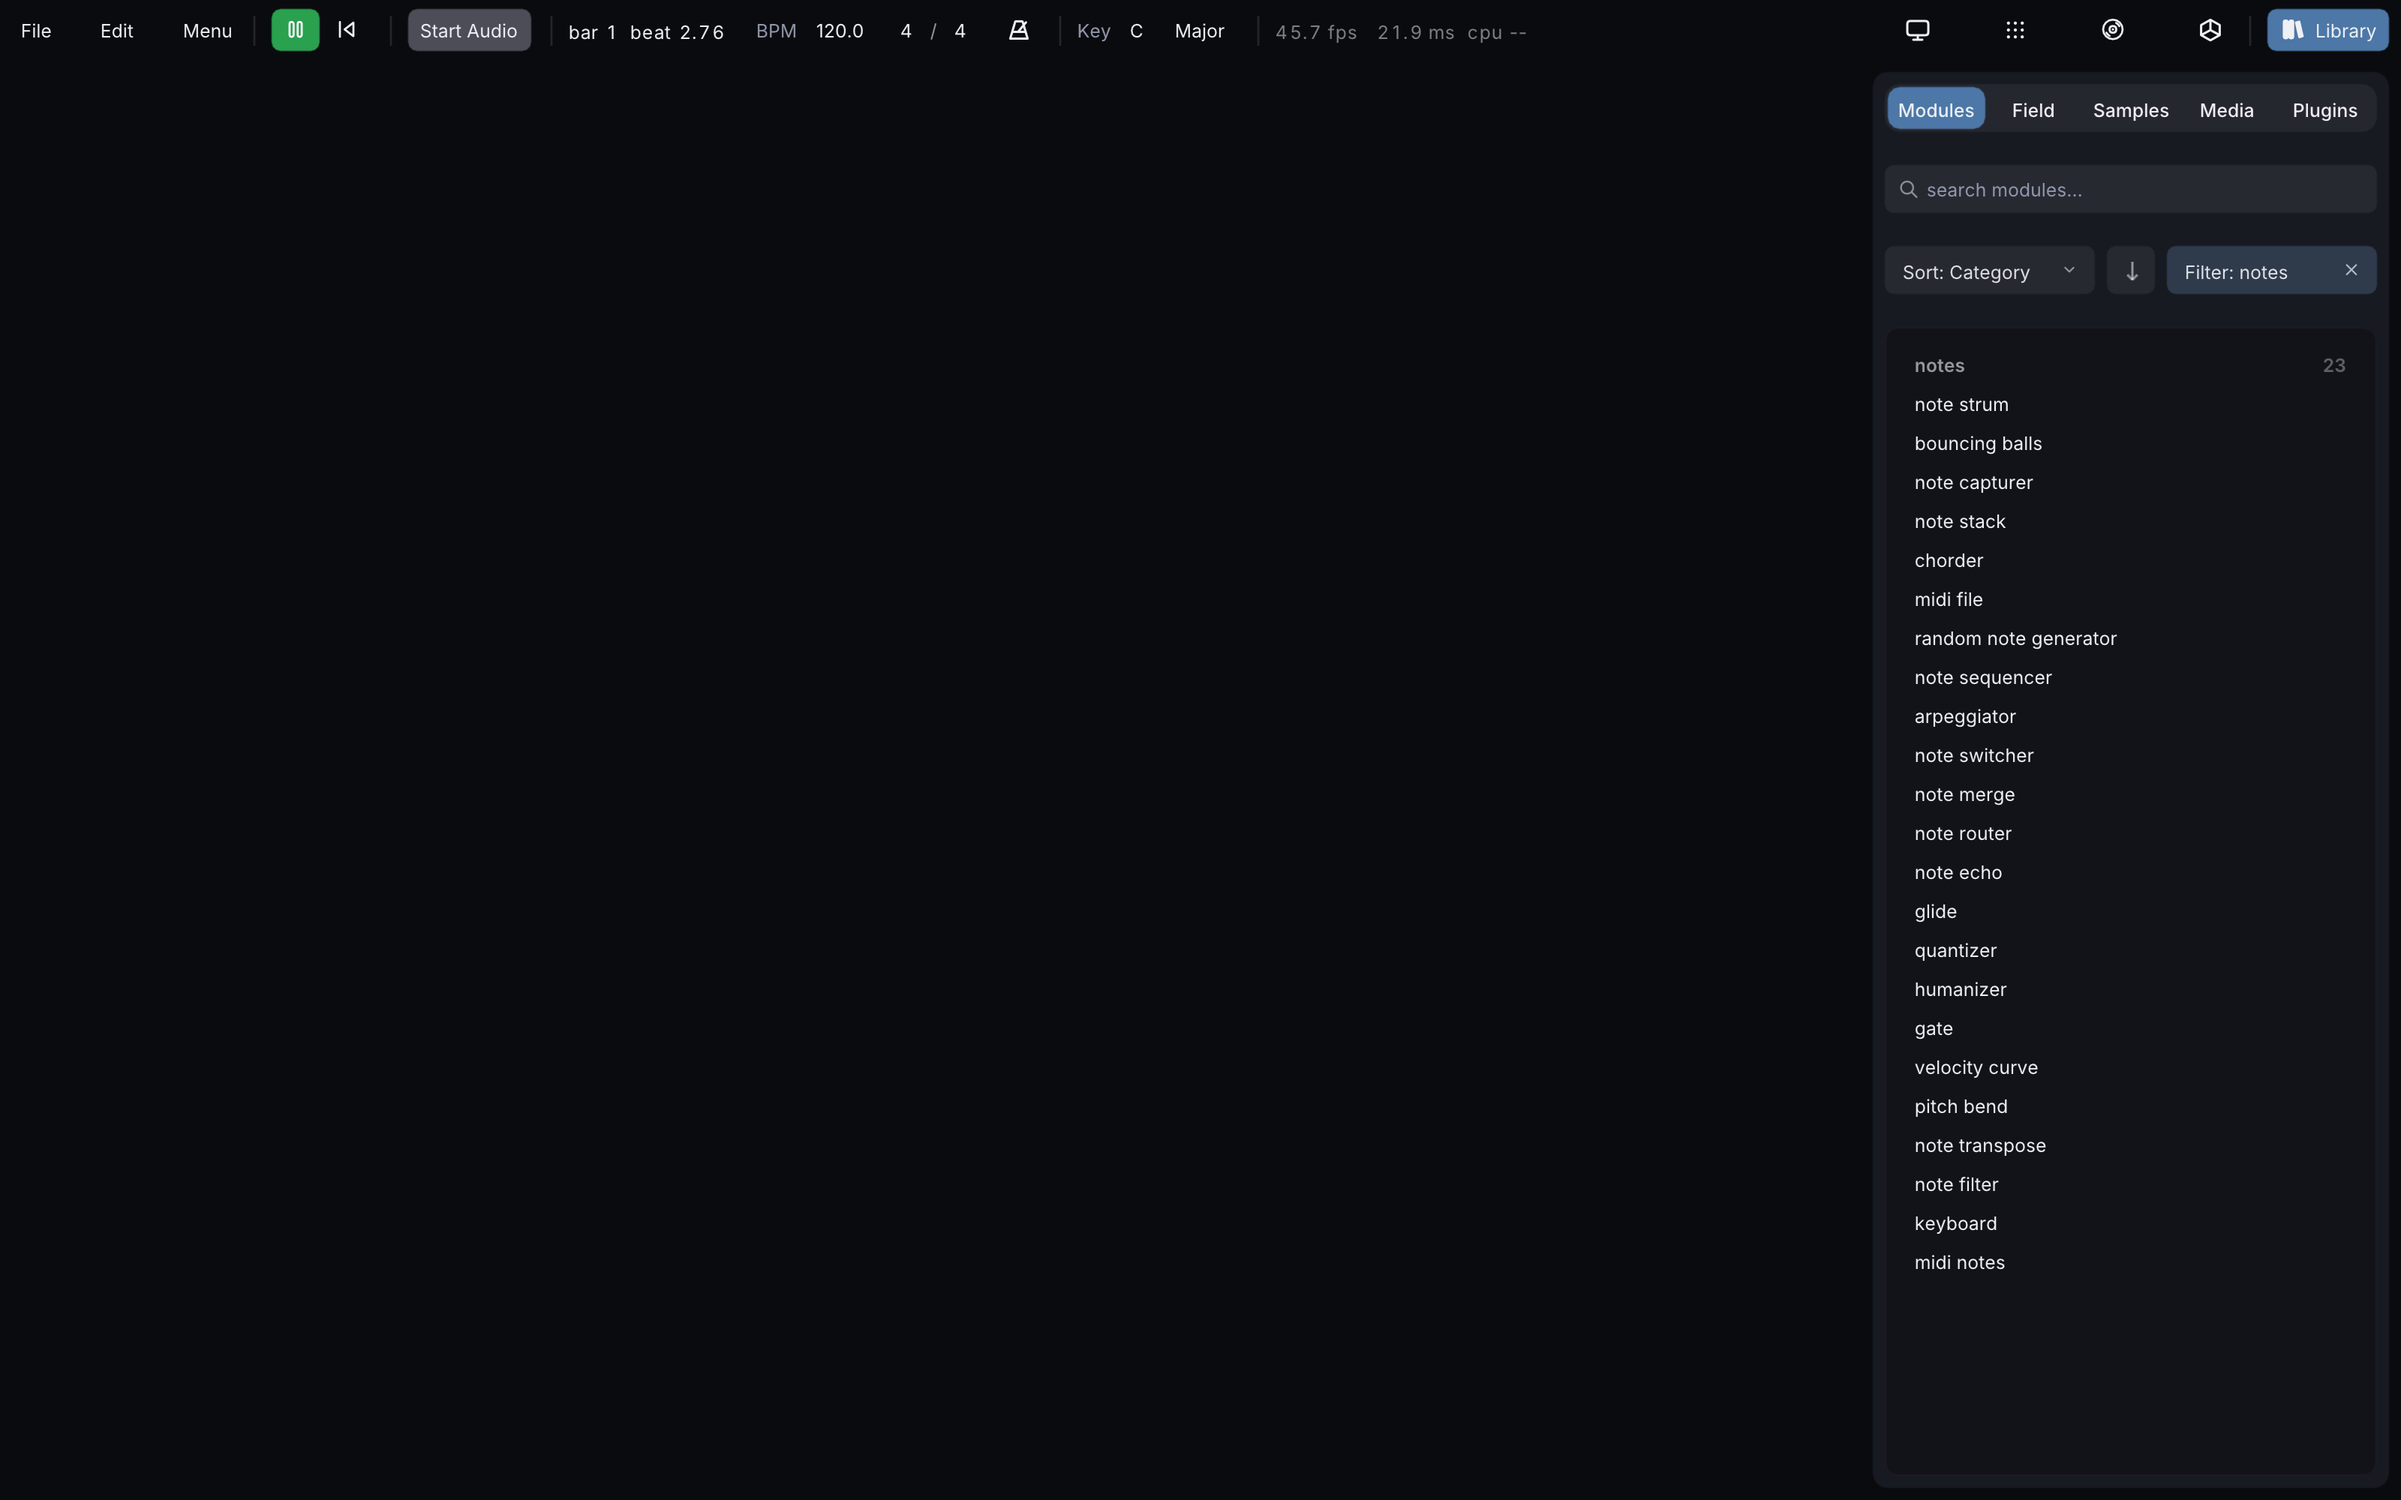
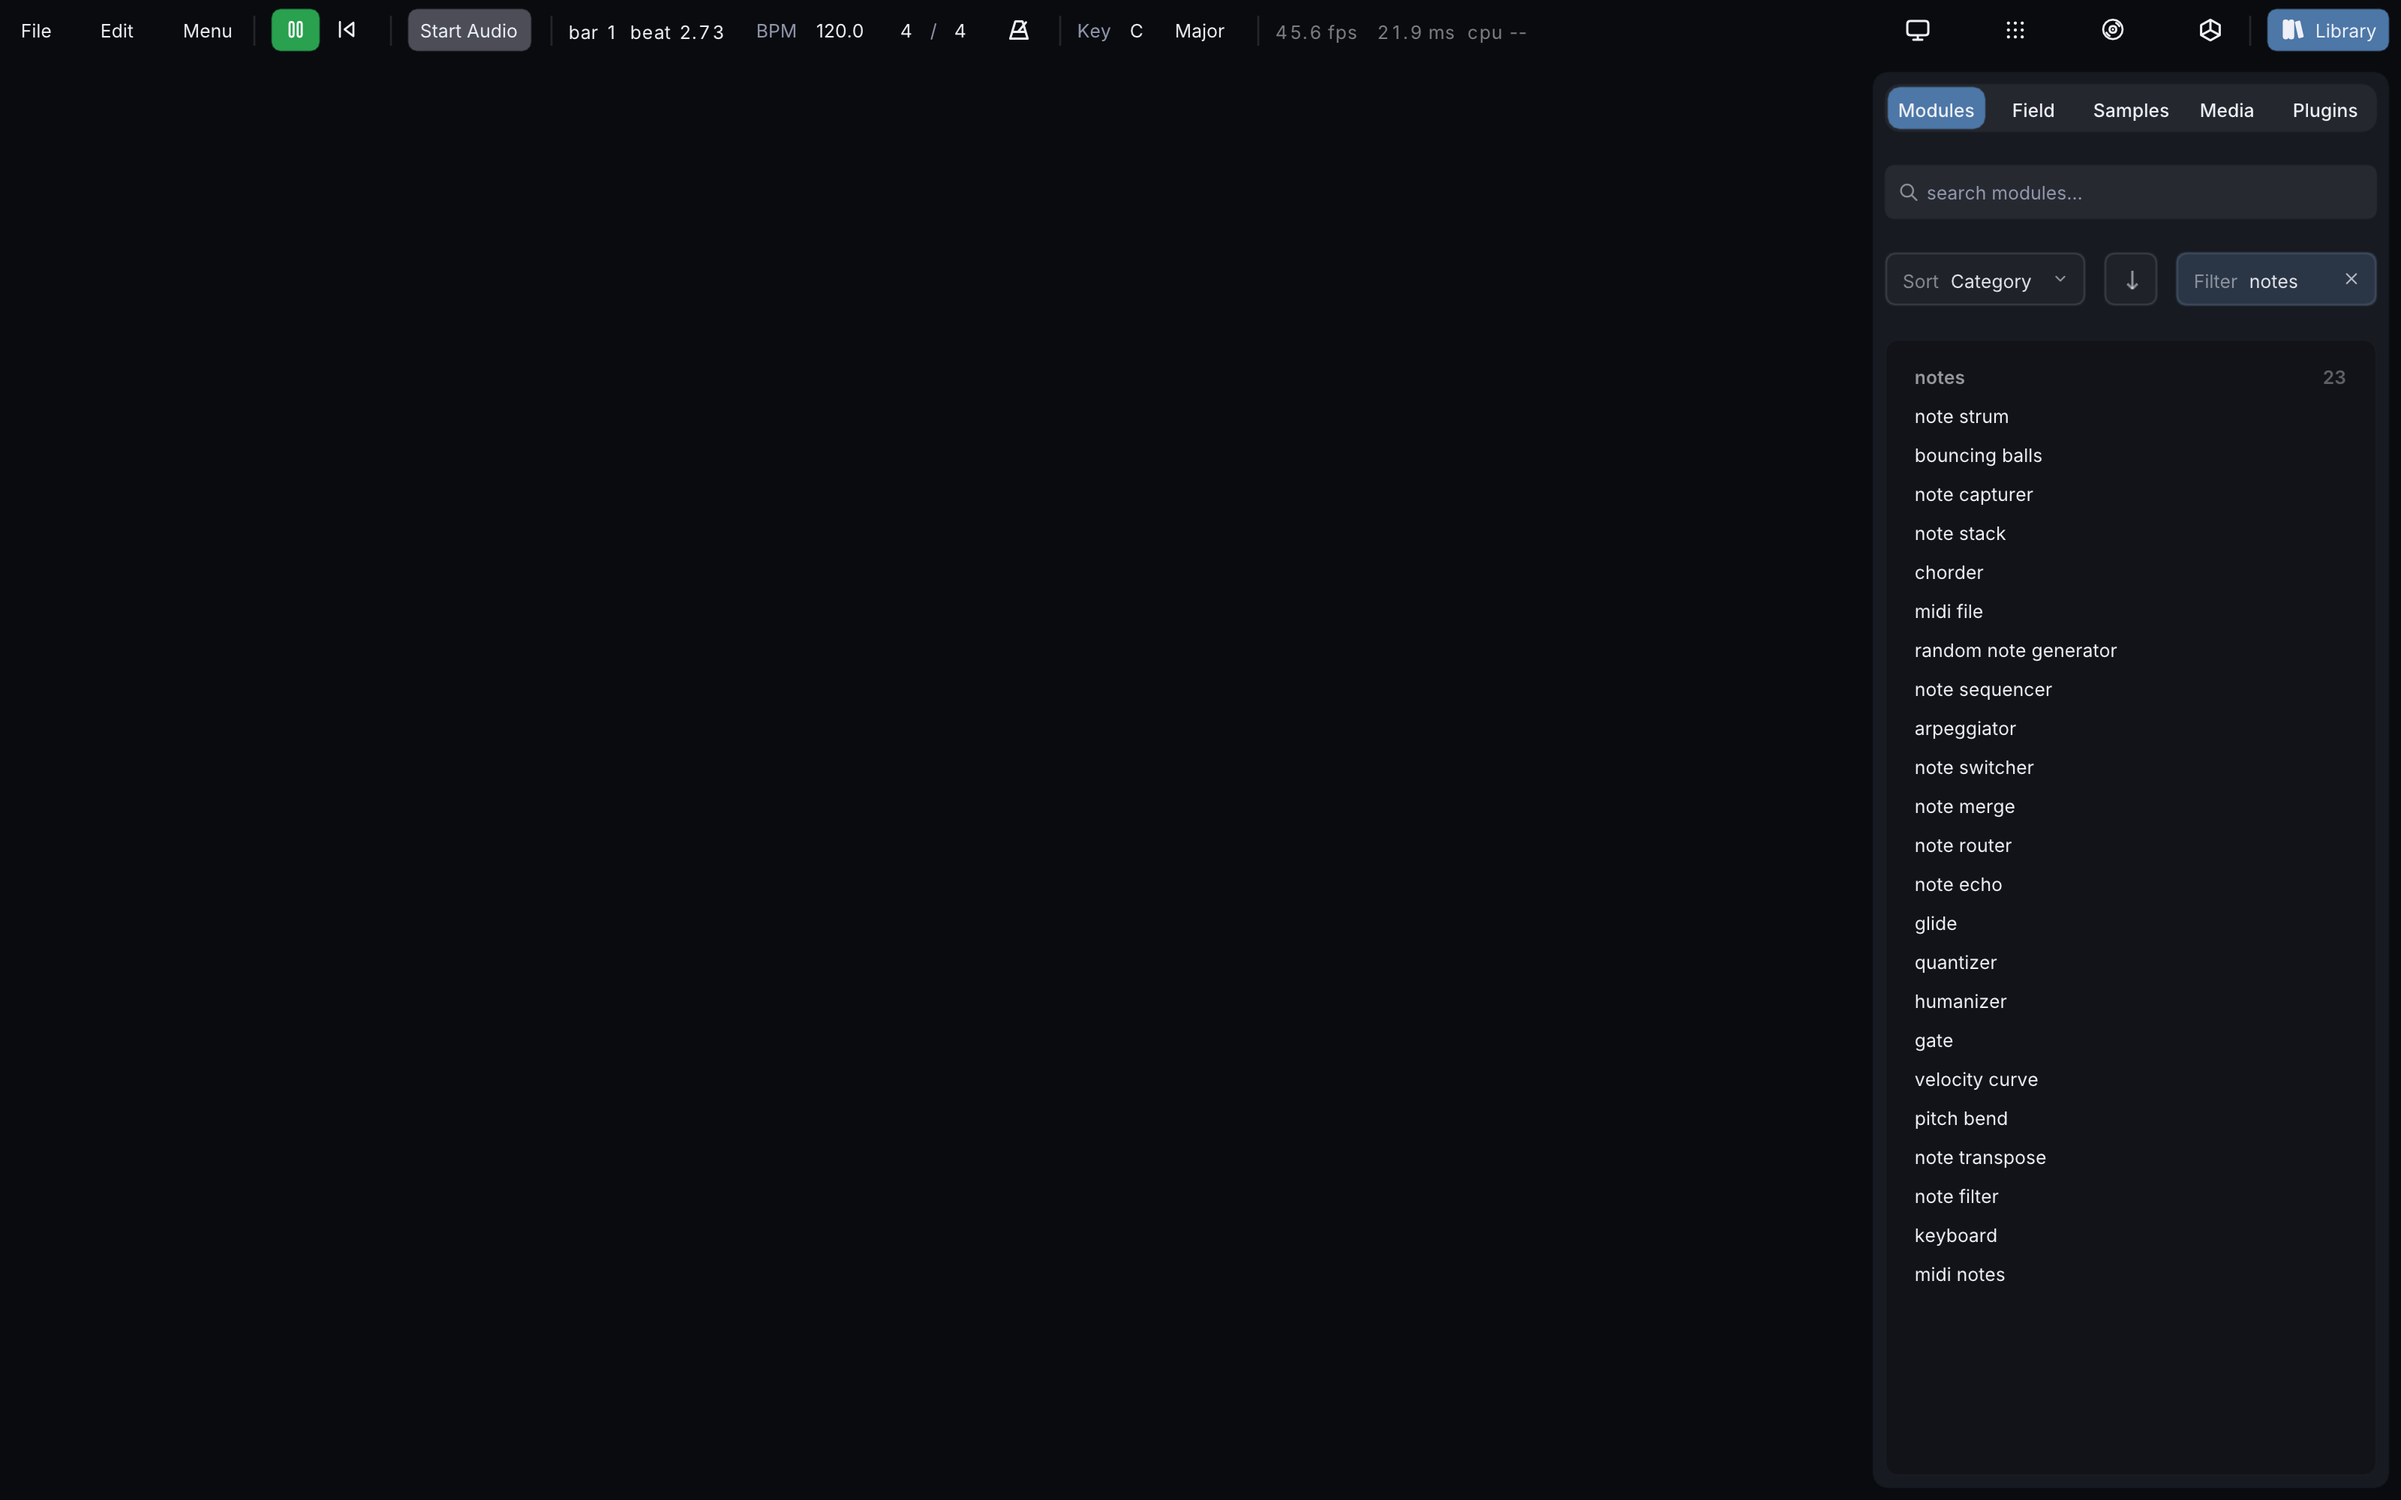
FilterBar: 36 pt outlined chips, two-tone caption/value, wider gaps; search field matches

Changed region(s): [[0.7812, 0.248, 0.875, 0.868], [0.875, 0.155, 1.0, 0.217], [0.8125, 0.124, 0.8438, 0.217]]

diff --git a/src/app/ui/design/components/FilterBar.h b/src/app/ui/design/components/FilterBar.h
@@ -15,7 +15,7 @@
 
 namespace FilterBar
 {
-   constexpr float kHeight = 32.0f;
+   constexpr float kHeight = 36.0f;
 
    namespace detail
    {
@@ -25,7 +25,9 @@ namespace FilterBar
       {
          const ImVec4 t = TextCol();
          dl->AddRectFilled(ImVec2(r.x, r.y), ImVec2(r.Right(), r.Bottom()),
-                           ImGui::GetColorU32(ImVec4(t.x, t.y, t.z, 0.07f + 0.03f * hv)), tok::radius_tile);
+                           ImGui::GetColorU32(ImVec4(t.x, t.y, t.z, 0.04f + 0.05f * hv)), tok::radius_tile);
+         dl->AddRect(ImVec2(r.x + 0.5f, r.y + 0.5f), ImVec2(r.Right() - 0.5f, r.Bottom() - 0.5f),
+                     ImGui::GetColorU32(ImVec4(t.x, t.y, t.z, 0.14f + 0.08f * hv)), tok::radius_tile);
          if (tint > 0.001f)
          {
             const ImVec4 a = app::AccentEmphasisSelected();
@@ -55,17 +57,20 @@ namespace FilterBar
          Well(dl, r, hv, on);
          const ImVec4 t = TextCol();
          UiType::Scope ts(UiType::Size::Title);
-         const std::string label = std::string(caption) + ": " + value;
-         const float tx = r.x + tok::space_3;
+         const std::string cap = std::string(caption) + "  ";
+         const float capW = ImGui::CalcTextSize(cap.c_str()).x;
+         const std::string label = value;
+         const float tx = r.x + tok::space_3 + capW;
          const float trail = r.Right() - tok::space_2 - 8.0f;
-         const float room = trail - tok::space_2 - tx;
+         const float room = trail - tok::space_2 - tx;  // value gets what the caption leaves
          std::string shown = label;
          while (shown.size() > 3 && ImGui::CalcTextSize(shown.c_str()).x > room)
             shown.pop_back();
          if (shown != label)
             shown += "...";
-         dl->AddText(ImVec2(tx, std::round(r.CenterY() - ImGui::GetFontSize() * 0.5f)),
-                     ImGui::GetColorU32(ImVec4(t.x, t.y, t.z, 0.92f)), shown.c_str());
+         const float ty = std::round(r.CenterY() - ImGui::GetFontSize() * 0.5f);
+         dl->AddText(ImVec2(r.x + tok::space_3, ty), ImGui::GetColorU32(ImVec4(t.x, t.y, t.z, 0.5f)), cap.c_str());
+         dl->AddText(ImVec2(tx, ty), ImGui::GetColorU32(ImVec4(t.x, t.y, t.z, 0.95f)), shown.c_str());
          bool cleared = false;
          if (active)
          {
@@ -118,7 +123,7 @@ namespace FilterBar
       std::vector<UiLayout::Cell> cells = { UiLayout::Flex(), UiLayout::Fixed(kHeight) };
       if (!typeNames.empty())
          cells.push_back(UiLayout::Flex());
-      const std::vector<UiLayout::Rect> c = UiLayout::Row(row, cells, tok::space_2);
+      const std::vector<UiLayout::Rect> c = UiLayout::Row(row, cells, tok::space_3);
 
       ImGui::PushID(key);
       const std::string kSort = std::string(key) + ".sort", kDir = std::string(key) + ".dir",

diff --git a/src/app/ui/design/components/LibraryParts.h b/src/app/ui/design/components/LibraryParts.h
@@ -13,7 +13,7 @@
 
 namespace LibraryParts
 {
-   constexpr float kFieldH = 32.0f;
+   constexpr float kFieldH = 36.0f;
    constexpr float kRowH = 26.0f;
    constexpr float kHeaderH = 28.0f;
 
